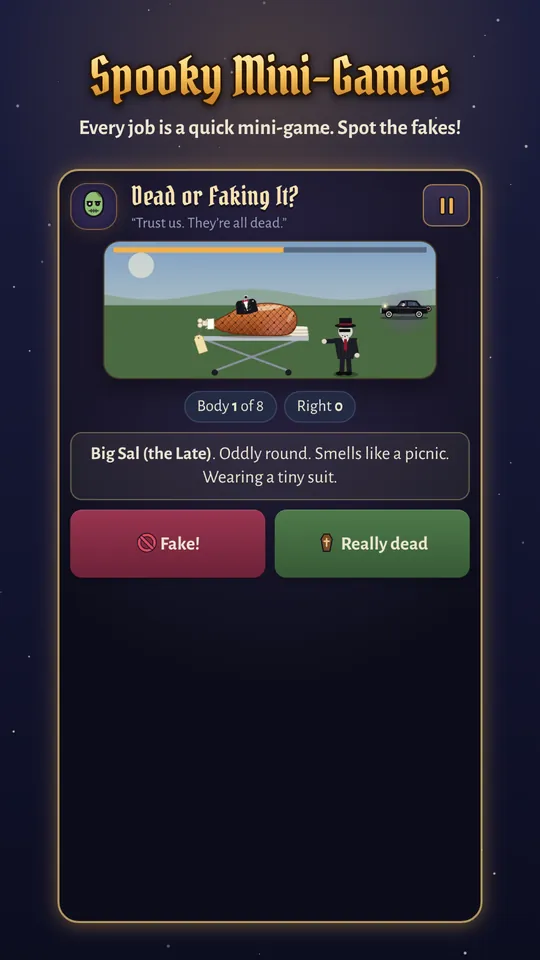
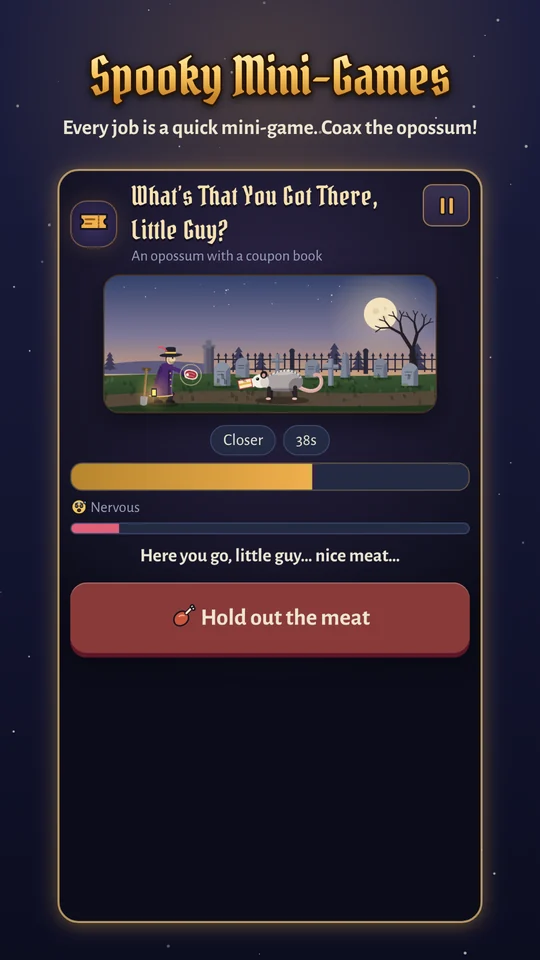
Add files via upload

Changed region(s): [[0.1185, 0.1875, 0.8889, 0.6875], [0.1185, 0.125, 0.8889, 0.1562], [0.8593, 0.4688, 0.8889, 0.5]]

diff --git a/deepwater-defense.html b/deepwater-defense.html
@@ -1,0 +1,123 @@
+<!doctype html>
+<html lang="en">
+<head>
+<meta charset="utf-8">
+<meta name="viewport" content="width=device-width, initial-scale=1">
+<title>Deepwater Defense · Wicked Pumpkin Games</title>
+<meta name="description" content="Deepwater Defense is a sea-monster defense game for Android by Wicked Pumpkin Games: arm your galleon, recruit legendary captains and sail ten seas to the Island of Riches.">
+<meta name="theme-color" content="#06202c">
+<link rel="icon" type="image/png" href="favicon.png">
+<link rel="apple-touch-icon" href="apple-touch-icon.png">
+<meta property="og:type" content="website">
+<meta property="og:title" content="Deepwater Defense: ten seas, ten bosses, one very big Kraken">
+<meta property="og:description" content="Arm your galleon, battle giant sea monsters and sail ten seas to a golden island. A sea-monster defense game for Android.">
+<meta property="og:image" content="https://wickedpumpkingames.github.io/img/dw-og.jpg">
+<meta name="twitter:card" content="summary_large_image">
+<link rel="stylesheet" href="site.css">
+</head>
+<body class="dw">
+<a class="skip" href="#game">Skip to the game</a>
+
+<header class="top">
+  <div class="wrap">
+    <a class="brand" href="./"><img src="img/studio-logo.webp" alt="" width="40" height="40"><span>Wicked Pumpkin Games</span></a>
+    <nav aria-label="Main">
+      <a href="./">Grave Shift</a>
+      <a href="deepwater-defense.html" aria-current="page">Deepwater<span class="nm"> Defense</span></a>
+      <a href="./#studio">Studio</a>
+      <a href="deepwater-defense-privacy-policy.html">Privacy</a>
+    </nav>
+  </div>
+</header>
+
+<main>
+<div class="dwhero" id="game">
+  <div class="wrap">
+    <div class="banner"><img src="img/dw-banner.webp" alt="Deepwater Defense: a giant red sea monster tentacle rises from a whirlpool beside a pirate galleon under a stormy golden sky" width="1024" height="500"></div>
+    <div class="dwname"><img src="img/dw-icon.webp" alt="" width="64" height="64"><h1>Deepwater Defense</h1></div>
+    <p class="tagline">Ten seas. Ten bosses. One very big Kraken.</p>
+    <p class="pitch">Somewhere past the edge of the last chart lies the Island of Riches. Between you and it are ten seas of hungry sea monsters and a Kraken the size of a small kingdom. Arm your galleon, recruit legendary captains and race Captain Silas Greedmore, the richest pirate on the seven seas (just ask him), to the gold.</p>
+    <div class="cta">
+      <span class="btn soon">Coming soon to Google Play</span>
+      <a class="btn ghost" href="#seas">See the ten seas</a>
+    </div>
+  </div>
+</div>
+
+<section id="seas">
+  <div class="wrap">
+    <h2 class="sec">Ten seas to the Island of Riches</h2>
+    <ol class="route">
+      <li style="--c:#8ee0e3"><span class="stop">1</span><span class="sea">Calm Shallows</span></li>
+      <li style="--c:#62c391"><span class="stop">2</span><span class="sea">Kelp Forest</span></li>
+      <li style="--c:#f2907e"><span class="stop">3</span><span class="sea">Coral Reef</span></li>
+      <li style="--c:#cf96e6"><span class="stop">4</span><span class="sea">Jellyfish Bloom</span></li>
+      <li style="--c:#8fa3c4"><span class="stop">5</span><span class="sea">Storm Straits</span></li>
+      <li style="--c:#a8946f"><span class="stop">6</span><span class="sea">Shipwreck Graveyard</span></li>
+      <li style="--c:#d6f2ff"><span class="stop">7</span><span class="sea">Frozen Sea</span></li>
+      <li style="--c:#f2683c"><span class="stop">8</span><span class="sea">Volcanic Vents</span></li>
+      <li class="dark" style="--c:#14142e"><span class="stop">9</span><span class="sea">The Abyss</span></li>
+      <li class="dark" style="--c:#c13d29"><span class="stop">10</span><span class="sea">Kraken’s Reach</span></li>
+      <li class="goal"><span class="stop"><svg width="26" height="26" viewBox="0 0 26 26" aria-hidden="true"><path d="M2 21 13 6l11 15z" fill="#6b4508"/><path d="M11 9.2V4.6h4.2v3.2H12.2" fill="none" stroke="#6b4508" stroke-width="1.8" stroke-linejoin="round"/></svg></span><span class="sea">Island of Riches</span></li>
+    </ol>
+    <p class="route-note">Every sea fights differently. Monsters fly over your nets, dive under your cannonballs, hide in the dark, wear armor, freeze your guns or laugh off fire. Every sea ends with a boss, from King Pincher, a crab nearly as big as your ship, to the Kraken itself.</p>
+  </div>
+</section>
+
+<section style="padding-top:8px">
+  <div class="wrap">
+    <h2 class="sec">All hands on deck</h2>
+    <p class="sub">Everything you can bring aboard on the way to the gold.</p>
+    <div class="cards four">
+      <div class="card"><h3>30 weapons</h3><p>Cannons, harpoons, nets, mortars, lightning coils, flame projectors, torpedoes and more. Set the right ones side by side for 30 formations, or combine three of a kind into one of 9 giant weapons.</p></div>
+      <div class="card"><h3>13 captains</h3><p>Each brings a weapon you fire yourself: Blackbeard’s blunderbuss, Hookhand Hattie’s grapnel, Morwenna the Sea Witch’s whirlpools and more. Most bring a support ship, too.</p></div>
+      <div class="card"><h3>12 pets</h3><p>Rescue sea creatures from Chomper the shark to Old Barnacle the whale and send them into the fight. When it all goes wrong, toss a bucket of chum overboard.</p></div>
+      <div class="card"><h3>10 treasure dives</h3><p>Pull on the brass helmet and go over the side. Every sea has its own dive site, laid out differently every time. Watch your air and mind the dark.</p></div>
+    </div>
+  </div>
+</section>
+
+<section aria-label="Screenshots" style="padding-top:8px">
+  <div class="wrap">
+    <div class="shots">
+      <figure><a href="img/dw-01.webp"><img src="img/dw-01.webp" alt="Battle giant sea monsters: ten seas, each with its own boss" loading="lazy" width="396" height="704"></a></figure>
+      <figure><a href="img/dw-02.webp"><img src="img/dw-02.webp" alt="Build your defenses: 30 weapons to arm your galleon" loading="lazy" width="396" height="704"></a></figure>
+      <figure><a href="img/dw-03.webp"><img src="img/dw-03.webp" alt="Face the mighty Kraken: the last guardian of the Deepwater" loading="lazy" width="396" height="704"></a></figure>
+      <figure><a href="img/dw-04.webp"><img src="img/dw-04.webp" alt="Ten seas to conquer: each one fights in its own way" loading="lazy" width="396" height="704"></a></figure>
+      <figure><a href="img/dw-05.webp"><img src="img/dw-05.webp" alt="Command legendary captains: each with a power of their own" loading="lazy" width="396" height="704"></a></figure>
+      <figure><a href="img/dw-06.webp"><img src="img/dw-06.webp" alt="Dive for sunken treasure: gold, pearls and relics below" loading="lazy" width="396" height="704"></a></figure>
+      <figure><a href="img/dw-07.webp"><img src="img/dw-07.webp" alt="Rescue loyal pets: each one joins the fight" loading="lazy" width="396" height="704"></a></figure>
+      <figure><a href="img/dw-08.webp"><img src="img/dw-08.webp" alt="Sail to the Island of Riches: ten seas stand in your way" loading="lazy" width="396" height="704"></a></figure>
+    </div>
+    <p class="fine">Also aboard: 100 levels with a story told in comic scenes, a Daily Voyage every day, the endless Maelstrom, Medium and Hard difficulties and 58 achievements. Battery saver, larger text and a colorblind mode are built in.</p>
+    <p class="fine" style="margin-top:10px">Deepwater Defense is free to play, with optional in-app purchases and ads, and plays offline. Prefer no ads? Ad Free is available in the game’s Treasure Chest.</p>
+  </div>
+</section>
+
+<section id="studio">
+  <div class="wrap">
+    <div class="studio">
+      <img src="img/studio-logo.webp" alt="Wicked Pumpkin Games logo: a grinning jack-o’-lantern over two crossed daggers" loading="lazy" width="420" height="404">
+      <div>
+        <h2 class="sec">Wicked Pumpkin Games</h2>
+        <p>Deepwater Defense is made by Wicked Pumpkin Games, the small independent studio behind <a href="./">Grave Shift</a>.</p>
+        <p>Questions, bug reports or ideas? Write to us at <a href="mailto:WickedPumpkinLLC@gmail.com">WickedPumpkinLLC@gmail.com</a>.</p>
+        <p><a href="deepwater-defense-privacy-policy.html">Deepwater Defense Privacy Policy</a></p>
+      </div>
+    </div>
+  </div>
+</section>
+</main>
+
+<footer class="site">
+  <div class="wrap">
+    <nav aria-label="Footer">
+      <a href="./">Home</a>
+      <a href="deepwater-defense-privacy-policy.html">Deepwater Defense Privacy Policy</a>
+      <a href="mailto:WickedPumpkinLLC@gmail.com">Contact</a>
+    </nav>
+    <p>© 2026 Wicked Pumpkin Games. Google Play is a trademark of Google LLC.</p>
+  </div>
+</footer>
+</body>
+</html>

diff --git a/deepwater-defense-privacy-policy.html b/deepwater-defense-privacy-policy.html
@@ -1,0 +1,88 @@
+<!doctype html>
+<html lang="en">
+<head>
+<meta charset="utf-8">
+<meta name="viewport" content="width=device-width, initial-scale=1">
+<title>Deepwater Defense Privacy Policy</title>
+<meta name="description" content="How the Deepwater Defense game for Android handles your information.">
+<meta name="theme-color" content="#06202c">
+<link rel="icon" type="image/png" href="favicon.png">
+<link rel="stylesheet" href="site.css">
+</head>
+<body class="dw">
+<header class="top">
+  <div class="wrap">
+    <a class="brand" href="./"><img src="img/studio-logo.webp" alt="" width="40" height="40"><span>Wicked Pumpkin Games</span></a>
+    <nav aria-label="Main">
+      <a href="./">Grave Shift</a>
+      <a href="deepwater-defense.html">Deepwater<span class="nm"> Defense</span></a>
+      <a href="./#studio">Studio</a>
+      <a href="deepwater-defense-privacy-policy.html" aria-current="page">Privacy</a>
+    </nav>
+  </div>
+</header>
+<main class="doc">
+<div class="card">
+  <h1>Deepwater Defense Privacy Policy</h1>
+  <p class="eff">Effective November 4, 2026</p>
+
+  <h2>Who we are</h2>
+  <p>Deepwater Defense is made by Wicked Pumpkin Games. We don't collect personal information ourselves: the game keeps your progress on your phone, and only Google's ad and payment services receive data, as described below.</p>
+  <p>This policy covers the Deepwater Defense app for Android and takes effect on November 4, 2026.</p>
+
+  <h2>Information stored on your device</h2>
+  <p>Your saved games, settings and unlocked items are stored only on your phone, in the app's own storage. There is no account to create, we run no servers, and your saves are never sent to us.</p>
+  <p>The game plays offline. It goes online only to load ads and to make or restore Google Play purchases. If you have allowed it in Android, Google Play may also collect crash and performance reports under Google's own policies.</p>
+
+  <h2>Advertising (Google AdMob)</h2>
+  <p>From level 5 on, the game shows a full-screen ad before battles and dives, served by Google AdMob. To show ads, measure them and prevent fraud, Google's ads software in the app collects:</p>
+  <ul>
+    <li>Your device's advertising ID and similar device identifiers</li>
+    <li>Device and app details, such as phone model, Android version, language and app version</li>
+    <li>Your IP address, which can indicate your approximate location</li>
+    <li>Which ads were shown to you and whether you tapped them</li>
+  </ul>
+  <p>Google handles this data under its own policies: <a href="https://policies.google.com/technologies/partner-sites">How Google uses information from apps that use its services</a> and the <a href="https://policies.google.com/privacy">Google Privacy Policy</a>.</p>
+  <p>Your choices:</p>
+  <ul>
+    <li><strong>In the EEA, the UK and Switzerland,</strong> the game shows Google's consent form before any personalized ads. You can refuse personalized ads, and you can change your choice at any time from the game's Settings.</li>
+    <li><strong>Anywhere,</strong> you can reset or delete your advertising ID in your phone's settings (Settings → Privacy → Ads), and manage ad personalization at <a href="https://myadcenter.google.com">myadcenter.google.com</a>.</li>
+    <li><strong>Ad Free,</strong> sold in the game's Treasure Chest, turns ads off for good.</li>
+  </ul>
+
+  <h2>In-app purchases</h2>
+  <p>Purchases are made through Google Play under Google's terms and privacy policy. Google handles your payment details, and we never see them.</p>
+  <p>The game receives only a confirmation of what you bought (the product and a purchase token), so it can give you the item. That stays on your phone. Restore Purchases asks Google Play which items your account owns.</p>
+
+  <h2>Sharing</h2>
+  <p>The game can make a picture of your ship and progress to share. It's created on your phone and goes only where you send it, through Android's share menu, when you tap Share. Nothing is shared automatically.</p>
+
+  <h2>Children</h2>
+  <p>Deepwater Defense is not directed at children under 13, and we don't knowingly collect personal information from them. If you believe a child under 13 has given information through the game's ad or payment services, contact us and we will help get it removed.</p>
+
+  <h2>Your choices and contact</h2>
+  <ul>
+    <li><strong>Deleting your data:</strong> uninstall the game, or go to Android Settings → Apps → Deepwater Defense → Storage → Clear storage. That erases your saves. Data held by Google for ads and purchases is managed in your <a href="https://myaccount.google.com">Google Account</a>.</li>
+    <li><strong>Your rights:</strong> depending on where you live, you may have the right to access or delete personal data about you. We hold none ourselves, but we're happy to help with any request.</li>
+    <li><strong>Security:</strong> data sent to Google's services travels encrypted.</li>
+    <li><strong>Changes:</strong> if this policy changes, we'll update this page and its effective date.</li>
+  </ul>
+
+  <footer>
+    <p>Questions? Contact Wicked Pumpkin Games at <a href="mailto:WickedPumpkinLLC@gmail.com"><strong>WickedPumpkinLLC@gmail.com</strong></a>.</p>
+    <p class="note">© 2026 Wicked Pumpkin Games</p>
+  </footer>
+</div>
+</main>
+<footer class="site">
+  <div class="wrap">
+    <nav aria-label="Footer">
+      <a href="./">Home</a>
+      <a href="deepwater-defense.html">Deepwater Defense</a>
+      <a href="deepwater-defense-privacy-policy.html">Privacy Policy</a>
+      <a href="mailto:WickedPumpkinLLC@gmail.com">Contact</a>
+    </nav>
+  </div>
+</footer>
+</body>
+</html>

diff --git a/site.css b/site.css
@@ -89,3 +89,50 @@ footer.site a:hover{color:var(--gold2)}
 .doc .note{color:var(--mute);font-size:15px}
 .doc footer{margin-top:28px;padding-top:16px;border-top:1px solid var(--line2)}
 .skip{position:absolute;left:-999px}.skip:focus{left:12px;top:12px;z-index:9;background:var(--card);padding:8px 12px;border-radius:8px}
+
+/* ---------- Deepwater Defense (added Nov 17, 2026): its own sea colours on its pages ---------- */
+body.dw{--bg:#06202c;--card:#0c3344;--card2:#114458;--line:rgba(246,201,69,.26);--gold:#f6c945;--gold2:#ffe08a;--link:#ffd666;--mute:#a9c3c9;--pumpkin:#e0533a;
+  background:#06202c;background-image:radial-gradient(1100px 620px at 82% -12%,rgba(46,160,178,.30),transparent 62%),radial-gradient(900px 600px at -12% 38%,rgba(210,73,47,.10),transparent 60%)}
+body.dw .top{background:rgba(6,32,44,.88)}
+body.dw .card p{color:#d3e2e4}
+.dwhero{padding:26px 0 8px}
+.dwhero .banner{max-width:900px;margin:0 auto;border-radius:18px;overflow:hidden;border:1px solid var(--line);box-shadow:0 18px 50px rgba(0,0,0,.55)}
+.dwhero .banner img{width:100%}
+.dwname{display:flex;align-items:center;justify-content:center;gap:14px;margin:26px 0 0}
+.dwname img{width:64px;height:64px;border-radius:16px;box-shadow:0 6px 18px rgba(0,0,0,.5),0 0 0 2px rgba(246,201,69,.45)}
+.dwname h1{margin:0;font:400 clamp(40px,8vw,62px)/1 var(--title);color:var(--gold);text-shadow:0 3px 0 #6b4508,0 8px 22px rgba(0,0,0,.6)}
+.dwhero .tagline,.dwhero .pitch{text-align:center}
+.dwhero .pitch{color:#d3e2e4}
+.route{display:grid;grid-template-columns:repeat(11,minmax(0,1fr));margin:8px 0 0;padding:0;list-style:none}
+.route li{position:relative;text-align:center;padding:0 3px}
+.route li:not(:last-child)::after{content:"";position:absolute;top:21px;left:50%;width:100%;height:3px;background:rgba(191,232,238,.28)}
+.route .stop{position:relative;z-index:1;display:flex;align-items:center;justify-content:center;width:44px;height:44px;margin:0 auto 8px;border-radius:50%;background:var(--c);color:#0b2430;font-weight:700;font-size:17px;box-shadow:0 0 0 3px rgba(5,26,38,.75)}
+.route .dark .stop{color:#fff;box-shadow:0 0 0 2px rgba(191,232,238,.5)}
+.route .sea{display:block;font-size:14px;line-height:1.25;color:#d3e2e4}
+.route .goal .stop{background:var(--gold);width:50px;height:50px;margin-top:-3px;margin-bottom:5px}
+.route .goal .sea{color:var(--gold);font-weight:700}
+@media (max-width:820px){
+  .route{grid-template-columns:repeat(2,minmax(0,1fr));gap:12px 16px;max-width:460px;margin:8px auto 0}
+  .route li{display:flex;align-items:center;gap:10px;text-align:left;padding:0}
+  .route li::after{display:none}
+  .route .stop,.route .goal .stop{flex:0 0 auto;width:38px;height:38px;margin:0;font-size:15px}
+  .route .goal{grid-column:1/-1}
+}
+.route-note{max-width:720px;margin:26px auto 0;text-align:center;color:#d3e2e4}
+.cards.four{grid-template-columns:repeat(4,1fr)}
+@media (max-width:980px){.cards.four{grid-template-columns:repeat(2,1fr)}}
+@media (max-width:560px){.cards.four{grid-template-columns:1fr}}
+.cards.four .card h3{font-size:30px}
+.shots a{display:block}
+
+/* the "also from the studio" card on the home page */
+.gamecard{display:grid;grid-template-columns:92px 1fr auto;gap:18px;align-items:center;max-width:820px;margin:0 auto;padding:18px 20px;border-radius:16px;text-decoration:none;color:var(--ink);
+  background:linear-gradient(135deg,#114458,#0a2a38 70%);border:1px solid rgba(246,201,69,.32);box-shadow:0 12px 30px rgba(0,0,0,.4)}
+.gamecard:hover{color:var(--ink);border-color:rgba(246,201,69,.7)}
+.gamecard img{width:92px;height:92px;border-radius:20px;box-shadow:0 0 0 2px rgba(246,201,69,.45)}
+.gamecard strong{display:block;font:400 34px/1.05 var(--title);color:#f6c945}
+.gamecard span{display:block;margin-top:4px;color:#d3e2e4}
+.gamecard .go{margin:0;white-space:nowrap;display:inline-flex;align-items:center;min-height:44px;padding:0 18px;border-radius:12px;font-weight:700;color:#2a1a04;background:linear-gradient(180deg,#ffe08a,#f6c945);box-shadow:0 3px 0 #9b7a17}
+@media (max-width:640px){.gamecard{grid-template-columns:72px 1fr;gap:14px}.gamecard img{width:72px;height:72px;border-radius:16px}.gamecard .go{grid-column:1/-1;justify-content:center}}
+@media (max-width:560px){.top nav .nm{display:none}}
+@media (max-width:430px){.top nav .wide{display:none}}   /* Terms stays in the footer on small phones */

diff --git a/index.html b/index.html
@@ -24,9 +24,10 @@
     <a class="brand" href="./"><img src="img/studio-logo.webp" alt="" width="40" height="40"><span>Wicked Pumpkin Games</span></a>
     <nav aria-label="Main">
       <a href="#game">Grave Shift</a>
+      <a href="deepwater-defense.html">Deepwater<span class="nm"> Defense</span></a>
       <a href="#studio">Studio</a>
       <a href="grave-shift-privacy-policy.html">Privacy</a>
-      <a href="grave-shift-terms-of-service.html">Terms</a>
+      <a class="wide" href="grave-shift-terms-of-service.html">Terms</a>
     </nav>
   </div>
 </header>
@@ -76,7 +77,7 @@
       <figure><img src="img/shot-night.webp" alt="Hold back the horde: the Keeper fights a monster horde at night while his weapons fire on their own" loading="lazy" width="540" height="960"></figure>
       <figure><img src="img/shot-king.webp" alt="Face the Vampire King: fireballs, bat swarms and the King himself attack the cemetery" loading="lazy" width="540" height="960"></figure>
       <figure><img src="img/shot-day.webp" alt="Run the cemetery by day: bury, cremate and build to earn your keep" loading="lazy" width="540" height="960"></figure>
-      <figure><img src="img/shot-mini.webp" alt="Spooky mini-games: spot the fake corpses in Dead or Faking It?" loading="lazy" width="540" height="960"></figure>
+      <figure><img src="img/shot-mini.webp" alt="Spooky mini-games: every job is a quick mini-game, like coaxing a coupon book from an opossum" loading="lazy" width="540" height="960"></figure>
     </div>
   </div>
 </section>
@@ -99,15 +100,27 @@
   </div>
 </section>
 
+<section id="more-games" style="padding-top:20px">
+  <div class="wrap">
+    <h2 class="sec">Also from Wicked Pumpkin Games</h2>
+    <p class="sub">Trade the graveyard for the open sea.</p>
+    <a class="gamecard" href="deepwater-defense.html">
+      <img src="img/dw-icon.webp" alt="" width="92" height="92" loading="lazy">
+      <div><strong>Deepwater Defense</strong><span>Arm your galleon, battle giant sea monsters and sail ten seas to a golden island. Coming soon to Google Play.</span></div>
+      <span class="go">See the game</span>
+    </a>
+  </div>
+</section>
+
 <section id="studio">
   <div class="wrap">
     <div class="studio">
       <img src="img/studio-logo.webp" alt="Wicked Pumpkin Games logo: a grinning jack-o’-lantern over two crossed daggers" loading="lazy" width="420" height="404">
       <div>
         <h2 class="sec">Wicked Pumpkin Games</h2>
-        <p>We’re a small independent studio making spooky, funny games.</p>
+        <p>We’re a small independent studio making spooky, funny games: Grave Shift, and <a href="deepwater-defense.html">Deepwater Defense</a> coming soon.</p>
         <p>Questions, bug reports or ideas? Write to us at <a href="mailto:WickedPumpkinLLC@gmail.com">WickedPumpkinLLC@gmail.com</a>.</p>
-        <p><a href="grave-shift-privacy-policy.html">Grave Shift Privacy Policy</a> · <a href="grave-shift-terms-of-service.html">Grave Shift Terms of Service</a></p>
+        <p><a href="grave-shift-privacy-policy.html">Grave Shift Privacy Policy</a> · <a href="grave-shift-terms-of-service.html">Grave Shift Terms of Service</a> · <a href="deepwater-defense-privacy-policy.html">Deepwater Defense Privacy Policy</a></p>
       </div>
     </div>
   </div>
@@ -117,8 +130,9 @@
 <footer class="site">
   <div class="wrap">
     <nav aria-label="Footer">
-      <a href="grave-shift-privacy-policy.html">Privacy Policy</a>
-      <a href="grave-shift-terms-of-service.html">Terms of Service</a>
+      <a href="grave-shift-privacy-policy.html">Grave Shift Privacy Policy</a>
+      <a href="grave-shift-terms-of-service.html">Grave Shift Terms of Service</a>
+      <a href="deepwater-defense.html">Deepwater Defense</a>
       <a href="mailto:WickedPumpkinLLC@gmail.com">Contact</a>
     </nav>
     <p>© 2026 Wicked Pumpkin Games. Google Play is a trademark of Google LLC.</p>

diff --git a/grave-shift-terms-of-service.html b/grave-shift-terms-of-service.html
@@ -15,9 +15,10 @@
     <a class="brand" href="./"><img src="img/studio-logo.webp" alt="" width="40" height="40"><span>Wicked Pumpkin Games</span></a>
     <nav aria-label="Main">
       <a href="./#game">Grave Shift</a>
+      <a href="deepwater-defense.html">Deepwater<span class="nm"> Defense</span></a>
       <a href="./#studio">Studio</a>
       <a href="grave-shift-privacy-policy.html">Privacy</a>
-      <a href="grave-shift-terms-of-service.html" aria-current="page">Terms</a>
+      <a class="wide" href="grave-shift-terms-of-service.html" aria-current="page">Terms</a>
     </nav>
   </div>
 </header>

diff --git a/grave-shift-privacy-policy.html b/grave-shift-privacy-policy.html
@@ -15,9 +15,10 @@
     <a class="brand" href="./"><img src="img/studio-logo.webp" alt="" width="40" height="40"><span>Wicked Pumpkin Games</span></a>
     <nav aria-label="Main">
       <a href="./#game">Grave Shift</a>
+      <a href="deepwater-defense.html">Deepwater<span class="nm"> Defense</span></a>
       <a href="./#studio">Studio</a>
       <a href="grave-shift-privacy-policy.html" aria-current="page">Privacy</a>
-      <a href="grave-shift-terms-of-service.html">Terms</a>
+      <a class="wide" href="grave-shift-terms-of-service.html">Terms</a>
     </nav>
   </div>
 </header>
